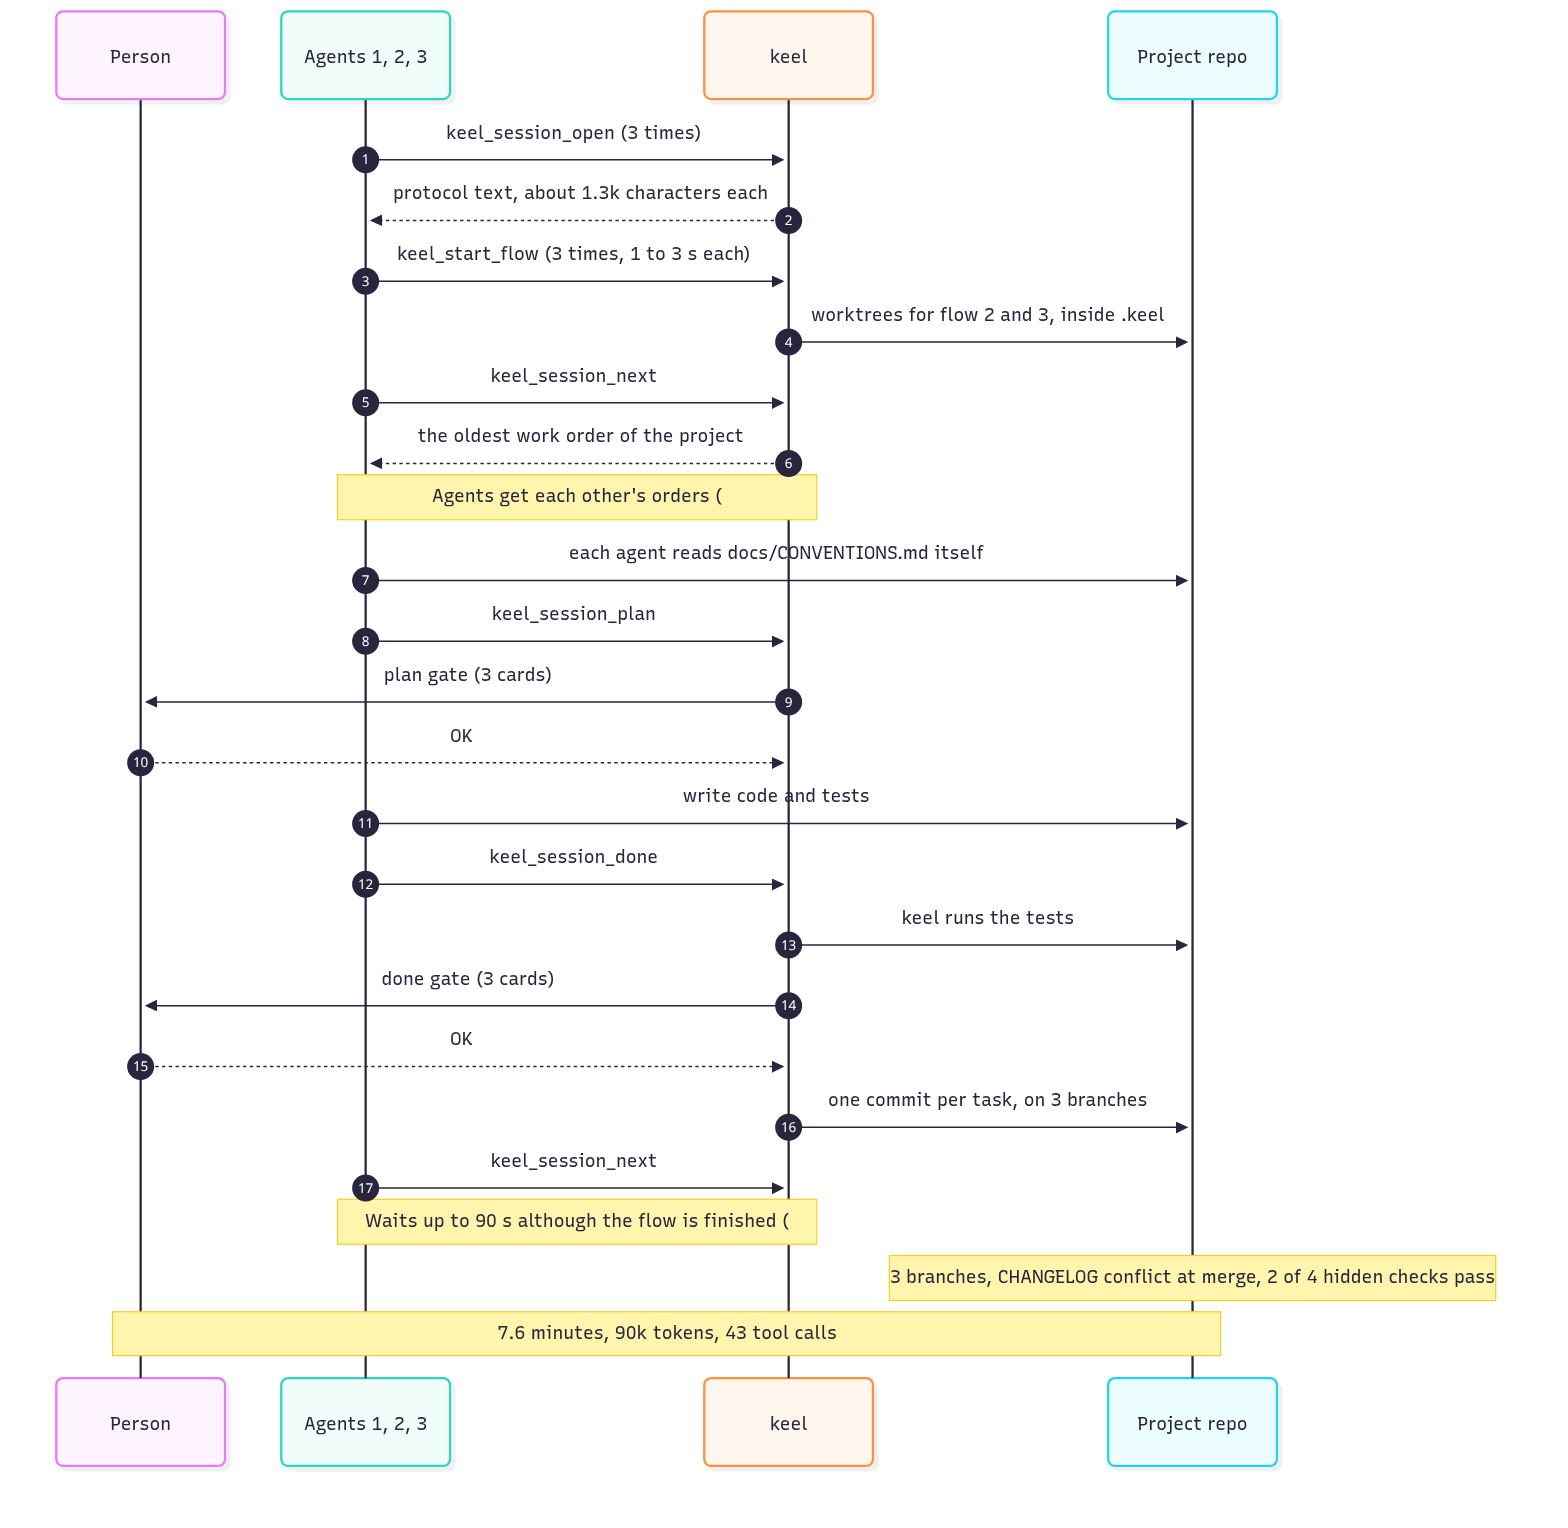
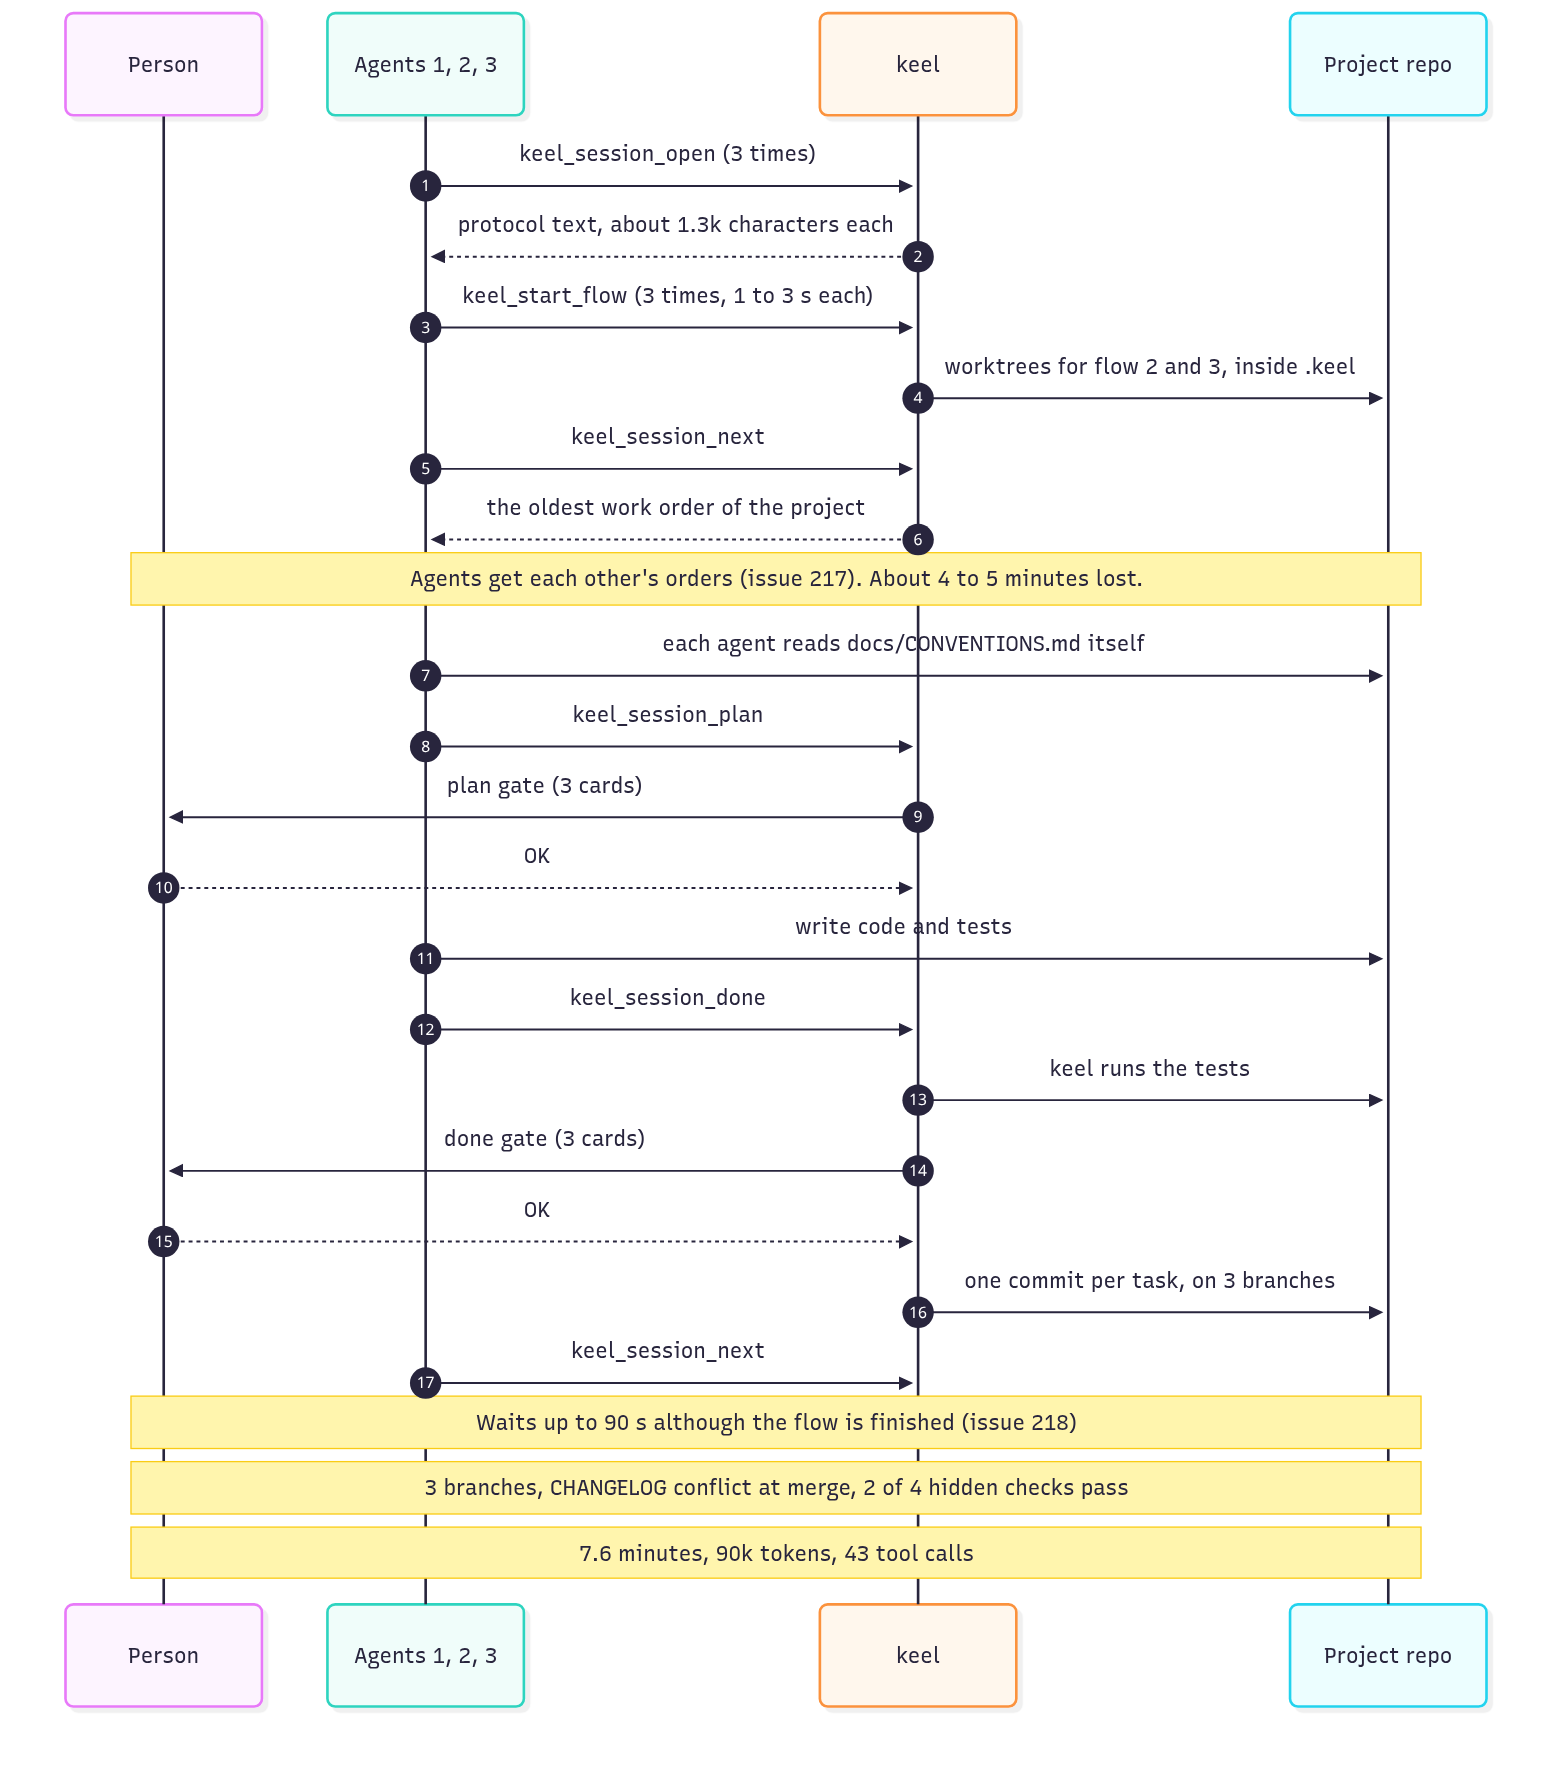
docs: sequence diagram notes no longer cut at the issue number (#254)

diff --git a/docs/research/keel-feature-proposal.md b/docs/research/keel-feature-proposal.md
@@ -160,7 +160,7 @@ sequenceDiagram
   K->>R: worktrees for flow 2 and 3, inside .keel
   A->>K: keel_session_next
   K-->>A: the oldest work order of the project
-  Note over A,K: Agents get each other's orders (#217). About 4 to 5 minutes lost.
+  Note over P,R: Agents get each other's orders (issue 217). About 4 to 5 minutes lost.
   A->>R: each agent reads docs/CONVENTIONS.md itself
   A->>K: keel_session_plan
   K->>P: plan gate (3 cards)
@@ -172,8 +172,8 @@ sequenceDiagram
   P-->>K: OK
   K->>R: one commit per task, on 3 branches
   A->>K: keel_session_next
-  Note over A,K: Waits up to 90 s although the flow is finished (#218)
-  Note over R: 3 branches, CHANGELOG conflict at merge, 2 of 4 hidden checks pass
+  Note over P,R: Waits up to 90 s although the flow is finished (issue 218)
+  Note over P,R: 3 branches, CHANGELOG conflict at merge, 2 of 4 hidden checks pass
   Note over P,R: 7.6 minutes, 90k tokens, 43 tool calls
 ```
 
